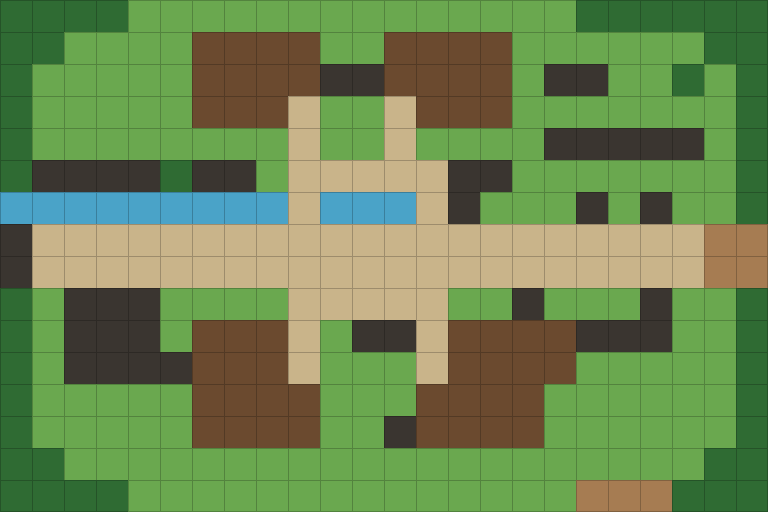
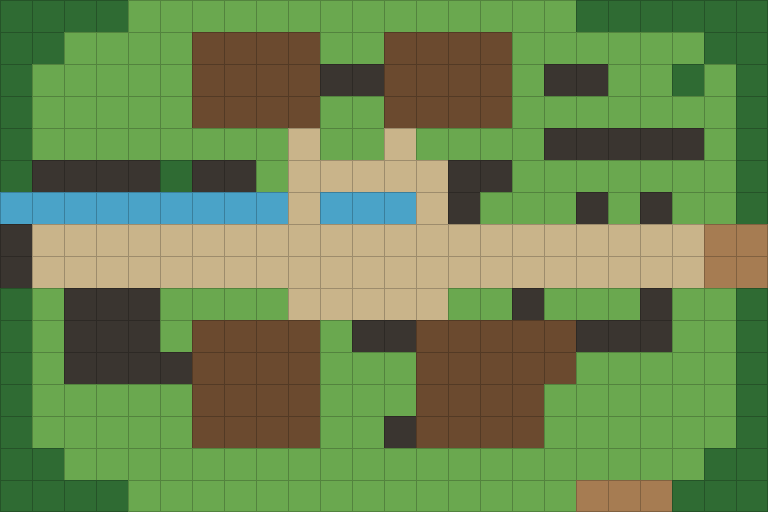
Ba Dan: block the six walkable tiles under house plinths and yards

diff --git a/src/content/scenes/baDan.test.ts b/src/content/scenes/baDan.test.ts
@@ -347,7 +347,7 @@ it('keeps court trunks solid and both shop doors and village routes reachable', 
   for (const pos of [
     // A resident-bound NpcDef has no `pos`: its tiles are its resident's anchors.
     ...map.npcs.flatMap((npc) => npcStandTiles(CONTENT_BUNDLE, map.id, npc)),
-    { x: 9, y: 3 },
+    { x: 10, y: 3 },
     { x: 11, y: 3 },
     { x: 23, y: 7 },
     { x: 19, y: 15 },
@@ -650,8 +650,9 @@ it('blocks the dressing, keeps the main ways open, and reaches every stand point
     for (let x = 1; x < map.width; x++) expect(open(x, y), `road ${x},${y}`).toBe(true);
   for (let x = 9; x <= 13; x++)
     for (const y of [5, 9]) expect(open(x, y), `square ${x},${y}`).toBe(true);
-  for (const y of [3, 4, 5])
-    for (const x of [9, 10]) expect(open(x, y), `lane ${x},${y}`).toBe(true);
+  // (9,3) is Gao's plinth and steps; the lane reaches his door at (10,3) from (10,4).
+  for (const y of [4, 5]) for (const x of [9, 10]) expect(open(x, y), `lane ${x},${y}`).toBe(true);
+  expect(open(10, 3), 'lane 10,3').toBe(true);
   for (const x of [9, 13]) expect(open(x, 6), `bridge ${x},6`).toBe(true);
   for (let x = 1; x < 17; x++) expect(open(x, 4), `north lane ${x},4`).toBe(true);
   // One connected walkable region: every walkable tile is reachable from the spawn, and every
@@ -668,7 +669,6 @@ it('blocks the dressing, keeps the main ways open, and reaches every stand point
   ).toEqual([]);
   for (const pos of [
     ...map.npcs.flatMap((npc) => npcStandTiles(CONTENT_BUNDLE, map.id, npc)),
-    { x: 9, y: 3 },
     { x: 10, y: 3 },
     { x: 11, y: 3 },
     { x: 11, y: 5 },
@@ -689,4 +689,66 @@ it('blocks the dressing, keeps the main ways open, and reaches every stand point
     ...[11, 12, 13, 14, 15].map((x) => ({ x, y: 15 })),
   ])
     expect(paths.has(posKey(pos)), `Unreachable stand point ${posKey(pos)}`).toBe(true);
+});
+
+it("leaves no walkable tile under a house's painted plinth, steps, wall or yard", () => {
+  // The painted pieces' own regions (`art/source/ba-dan-true/guides/pieces.json`), local to the footprint's
+  // north-west corner: the yard fills x 0..yard, the plinth runs on to the footprint's east edge over its
+  // whole depth, the wall stands on the plinth and the steps rise in the footprint's last column. A tile
+  // whose centre is inside any of them is one a figure would stand in the building. The tile in front of
+  // the steps (the door's `faces_tile`) is the one place to stand, and must stay open.
+  type Rect = readonly [number, number, number, number];
+  interface Piece {
+    scene_entry: string;
+    footprint_origin_map: [number, number];
+    footprint_tiles: [number, number];
+    door: { faces_tile: [number, number]; steps_x: Rect; steps_y: Rect };
+    geo: { wx0: number; wx1: number; wy0: number; wy1: number };
+    yard: { x: [number, number] };
+  }
+  const guides = JSON.parse(
+    readFileSync('art/source/ba-dan-true/guides/pieces.json', 'utf8'),
+  ) as Record<string, Piece>;
+  const houses = Object.values(guides).filter((piece) =>
+    BA_DAN_STANDING.some((s) => s.id === piece.scene_entry && s.id.endsWith('-house')),
+  );
+  expect(houses).toHaveLength(4);
+  const map = BA_DAN_VILLAGE;
+  const grid = buildGrid(map);
+  const start = map.partySpawns[0];
+  if (!start) throw new Error('Village has no spawn');
+  const paths = reachable({ grid, blocked: new Set(), surfaces: new Map(), size: 1 }, start, 1000);
+  const inside = (r: Rect, x: number, y: number) => x > r[0] && x < r[1] && y > r[2] && y < r[3];
+  for (const piece of houses) {
+    const [ox, oy] = piece.footprint_origin_map;
+    const [w, d] = piece.footprint_tiles;
+    const { wx0, wx1, wy0, wy1 } = piece.geo;
+    const regions: Record<string, Rect> = {
+      yard: [0, piece.yard.x[1], 0, d],
+      plinth: [piece.yard.x[1], w, 0, d],
+      wall: [wx0, wx1, wy0, wy1],
+      steps: [
+        piece.door.steps_x[0] ?? 0,
+        piece.door.steps_x[1] ?? 0,
+        piece.door.steps_y[0] ?? 0,
+        piece.door.steps_y[1] ?? 0,
+      ],
+    };
+    const footprint = BA_DAN_STANDING.find((s) => s.id === piece.scene_entry)?.footprint ?? [];
+    expect(footprint, piece.scene_entry).toHaveLength(w * d);
+    expect(footprint[0], piece.scene_entry).toEqual({ x: ox, y: oy });
+    for (let y = oy - 1; y <= oy + d; y++)
+      for (let x = ox - 1; x <= ox + w; x++) {
+        if (tileAt(grid, { x, y })?.blocked !== false) continue;
+        for (const [name, rect] of Object.entries(regions))
+          expect(
+            inside(rect, x + 0.5 - ox, y + 0.5 - oy),
+            `${piece.scene_entry}: walkable (${x},${y}) is under its ${name}`,
+          ).toBe(false);
+      }
+    const [fx, fy] = piece.door.faces_tile;
+    const foot = { x: ox + fx, y: oy + fy };
+    expect(tileAt(grid, foot)?.blocked, `${piece.scene_entry} door foot`).toBe(false);
+    expect(paths.has(posKey(foot)), `${piece.scene_entry} door foot reachable`).toBe(true);
+  }
 });

diff --git a/src/content/maps/village.ts b/src/content/maps/village.ts
@@ -33,27 +33,27 @@ export const BA_DAN_VILLAGE: MapDef = {
   ambience: 'village',
   legend: { ...LEGEND, l: { terrain: 'stone', blocked: true, blocksSight: false } },
   /*
-   * The house bodies are solid: their plank floors (`w` until the edges pass)
-   * were walkable cells under the painted roofs. Only the `=` doorsteps where
-   * each paved path meets its house stay open; Gao's routine steps from his
-   * lane at (9,4) up to (10,3), a diagonal that needs (9,3) open. The west
-   * road ends at the ford, `W` at (0,7) and (0,8), flooded this season; a
-   * future west region opens there behind a `Condition`, not through the rim. The set
+   * The house bodies are solid, and so is everything the painted plinth, steps and yard stand on:
+   * the house plinth runs the whole footprint, the yard fills its west tiles, and the east steps rise
+   * in its last column, so no footprint cell is open. Each door's steps come down on the open tile in
+   * front of them ((10,3), (16,3), (10,13), (17,13)); Gao's routine steps from his lane at (9,4)
+   * to (10,3) by (10,4). The west road ends at the ford, `W` at (0,7) and (0,8), flooded this
+   * season; a future west region opens there behind a `Condition`, not through the rim. The set
    * dressing's footprints (`BA_DAN_DRESSING`) are `l` lawn like the courtyard props.
    */
   rows: [
     'TTTT,,,,,,,,,,,,,,TTTTTT',
     'TT,,,,BBBB,,BBBB,,,,,,TT',
     'T,,,,,BBBB,,BBBB,,,,,,,T',
-    'T,,,,,BBB=,,=BBB,,,,,,,T',
+    'T,,,,,BBBB,,BBBB,,,,,,,T',
     'T,,,,,,,,=,,=,,,,,,,,,,T',
     'T,,,,,,,,=====,,,,,,,,,T',
     '~~~~~~~~~=~~~=,,,,,,,,,T',
     'W=====================..',
     'W=====================..',
     'T,,,,,,,,=====,,,,,,,,,T',
-    'T,,,,,BBB=,,,=BBBB,,,,,T',
-    'T,,,,,BBB=,,,=BBBB,,,,,T',
+    'T,,,,,BBBB,,,BBBBB,,,,,T',
+    'T,,,,,BBBB,,,BBBBB,,,,,T',
     'T,,,,,BBBB,,,BBBB,,,,,,T',
     'T,,,,,BBBB,,,BBBB,,,,,,T',
     'TT,,,,,,,,,,,,,,,,,,,,TT',

diff --git a/src/core/save/reconcileWorld.test.ts b/src/core/save/reconcileWorld.test.ts
@@ -434,3 +434,46 @@ suite('reconcileWorld: the Ba Dan edge rebuild (A5)', () => {
     expect(tileAt(grid, reconciled.location.pos)?.blocked).toBe(false);
   });
 });
+
+suite('reconcileWorld: a save standing where a house plinth now is', () => {
+  // Ba Dan's four footprints were once open at these tiles (under the plinth, the steps and the yard).
+  // A save made there loads onto the nearest open tile, by the same snap as any other buried position.
+  const buried: readonly [Vec2, Vec2][] = [
+    [
+      { x: 9, y: 3 },
+      { x: 10, y: 3 },
+    ],
+    [
+      { x: 12, y: 3 },
+      { x: 11, y: 3 },
+    ],
+    [
+      { x: 9, y: 10 },
+      { x: 8, y: 9 },
+    ],
+    [
+      { x: 9, y: 11 },
+      { x: 10, y: 10 },
+    ],
+    [
+      { x: 13, y: 10 },
+      { x: 12, y: 9 },
+    ],
+    [
+      { x: 13, y: 11 },
+      { x: 12, y: 11 },
+    ],
+  ];
+  for (const [saved, loaded] of buried)
+    it(`moves a save at (${saved.x},${saved.y}) to (${loaded.x},${loaded.y})`, () => {
+      const result = deserialize(
+        serialize(exploring({ location: { mapId: 'ba_dan_village', pos: saved } }), META),
+      );
+      if (!result.ok) throw new Error(result.error);
+      const reconciled = reconcileWorld(CONTENT, stateFromBlob(result.blob));
+      expect(reconciled.location.pos).toEqual(loaded);
+      const map = CONTENT.maps.get('ba_dan_village');
+      if (!map) throw new Error('no village');
+      expect(tileAt(buildGrid(map), reconciled.location.pos)?.blocked).toBe(false);
+    });
+});

diff --git a/src/app/anim/trail.test.ts b/src/app/anim/trail.test.ts
@@ -1,5 +1,6 @@
 import { describe, expect, it } from 'vitest';
 import { BA_DAN_VILLAGE } from '../../content/maps/village';
+import { BA_DAN_STANDING } from '../../content/scenes/baDan';
 import { CONTENT } from '../../content';
 import { createGame } from '../../core/state/createGame';
 import { visibleNpcs } from '../../core/story/world';
@@ -55,6 +56,25 @@ describe('placeParty', () => {
 
   it('is the same every time', () => {
     expect(placeParty(grid, spawn, 6)).toEqual(placeParty(grid, spawn, 6));
+  });
+
+  it('never seats a follower on a house plinth, its steps or its yard', () => {
+    // The well stop and the potter's door stop, where the line once stood on the woodcutter's plinth.
+    const houses = BA_DAN_STANDING.filter((piece) => piece.id.endsWith('-house'));
+    for (const lead of [
+      { x: 10, y: 12 },
+      { x: 14, y: 4 },
+    ]) {
+      const seats = placeParty(grid, lead, 4, { awayFrom: exit });
+      for (const seat of seats) {
+        expect(tileAt(grid, seat)?.blocked).toBeFalsy();
+        for (const house of houses)
+          expect(
+            house.footprint.some((cell) => samePos(cell, seat)),
+            `${posKey(seat)}`,
+          ).toBe(false);
+      }
+    }
   });
 
   it('stacks a party larger than the open ground on the last tile taken', () => {

diff --git a/src/content/residents/routines.ts b/src/content/residents/routines.ts
@@ -17,7 +17,8 @@ export const BA_DAN_ROUTINES: readonly ResidentRoutine[] = [
   {
     // Gao restacks his display. Its crates sit under the table, reached from
     // the front at (8,5); the display's own corner blocks the diagonal, so he
-    // goes round by the lane. Then up his steps to the rear room for stock.
+    // goes round by the lane. Then along the lane to the foot of his steps, (10,3), for stock;
+    // the steps' own tile, (9,3), is under the porch and blocked.
     id: 'lw.npc.gao',
     mapId: VILLAGE,
     anchor: 'bd02.shopfront',
@@ -39,8 +40,22 @@ export const BA_DAN_ROUTINES: readonly ResidentRoutine[] = [
         ],
         hold: 5000,
       },
-      { path: [{ x: 10, y: 3 }], hold: 2500, work: true, face: -1 },
-      { path: [{ x: 9, y: 4 }], hold: 6000 },
+      {
+        path: [
+          { x: 10, y: 4 },
+          { x: 10, y: 3 },
+        ],
+        hold: 2500,
+        work: true,
+        face: -1,
+      },
+      {
+        path: [
+          { x: 10, y: 4 },
+          { x: 9, y: 4 },
+        ],
+        hold: 6000,
+      },
     ],
   },
 ];

diff --git a/docs/art/prompts/maps/ba_dan_village.md b/docs/art/prompts/maps/ba_dan_village.md
@@ -18,10 +18,10 @@ Ba Dan, the small village the party sets out from: a clearing in the woods.
 
 24 columns by 16 rows, counted from 0 at the top-left corner. The painting is the ground and what stands on it, nothing else: the game draws its own grid, movement contours, units, props and effects over it, so every edge in the painting that matters to the rules sits exactly on a tile edge.
 
-- Road (62 tiles): 62 tiles (the centre), rows 3–4: columns 9 and 12; rows 5 and 9: columns 9–13; rows 6 and 10–11: columns 9 and 13; rows 7–8: columns 1–21.
+- Road (56 tiles): 56 tiles (the centre), row 4: columns 9 and 12; rows 5 and 9: columns 9–13; row 6: columns 9 and 13; rows 7–8: columns 1–21.
 - Still water (12 tiles): a 9×1 block at columns 0–8, row 6 (middle left); a 3×1 block at columns 10–12, row 6 (the centre).
 - Trees (46 tiles): 13 tiles (top right), row 0: columns 18–23; row 1: columns 22–23; rows 2–6: column 23; 11 tiles (bottom left), rows 9–13: column 0; row 14: columns 0–1; row 15: columns 0–3; 10 tiles (top left), row 0: columns 0–3; row 1: columns 0–1; rows 2–5: column 0; 10 tiles (bottom right), rows 9–13: column 23; row 14: columns 22–23; row 15: columns 21–23; one tile at column 21, row 2 (top right); one tile at column 5, row 5 (middle left).
-- Timber walls (52 tiles): 16 tiles (bottom centre), rows 10–11: columns 14–17; rows 12–13: columns 13–16; 14 tiles (bottom centre), rows 10–11: columns 6–8; rows 12–13: columns 6–9; 11 tiles (top centre), rows 1–2: columns 6–9; row 3: columns 6–8; 11 tiles (top centre), rows 1–2: columns 12–15; row 3: columns 13–15.
+- Timber walls (58 tiles): 18 tiles (bottom centre), rows 10–11: columns 13–17; rows 12–13: columns 13–16; a 4×4 block at columns 6–9, rows 10–13 (bottom centre); a 4×3 block at columns 6–9, rows 1–3 (top centre); a 4×3 block at columns 12–15, rows 1–3 (top centre).
 - Stone walls (40 tiles): 10 tiles (middle left), rows 9–10: columns 2–4; row 11: columns 2–5; a 5×1 block at columns 17–21, row 4 (top right); a 4×1 block at columns 1–4, row 5 (middle left); 4 tiles (middle right), row 9: column 20; row 10: columns 18–20; 3 tiles (the centre), row 5: columns 14–15; row 6: column 14; a 2×1 block at columns 10–11, row 2 (top centre); a 2×1 block at columns 17–18, row 2 (top right); a 2×1 block at columns 6–7, row 5 (middle left); a 1×2 block at column 0, rows 7–8 (middle left); a 2×1 block at columns 11–12, row 10 (the centre); one tile at column 18, row 6 (middle right); one tile at column 20, row 6 (middle right); one tile at column 16, row 9 (middle right); one tile at column 12, row 13 (bottom centre).
 - Open ground everywhere else: grass (165 tiles), bare earth (7 tiles).
 - The party enters from the left, standing at (3, 7); enemies come from the right. The exit is at (23, 7). Paint nothing there that would read as an object to walk round.
@@ -32,15 +32,15 @@ The rows as the rules read them:
 TTTT,,,,,,,,,,,,,,TTTTTT
 TT,,,,BBBB,,BBBB,,,,,,TT
 T,,,,,BBBBllBBBB,ll,,T,T
-T,,,,,BBB=,,=BBB,,,,,,,T
+T,,,,,BBBB,,BBBB,,,,,,,T
 T,,,,,,,,=,,=,,,,lllll,T
 TllllTll,=====ll,,,,,,,T
 ~~~~~~~~~=~~~=l,,,l,l,,T
 W=====================..
 W=====================..
 T,lll,,,,=====,,l,,,l,,T
-T,lll,BBB=,ll=BBBBlll,,T
-T,llllBBB=,,,=BBBB,,,,,T
+T,lll,BBBB,llBBBBBlll,,T
+T,llllBBBB,,,BBBBB,,,,,T
 T,,,,,BBBB,,,BBBB,,,,,,T
 T,,,,,BBBB,,lBBBB,,,,,,T
 TT,,,,,,,,,,,,,,,,,,,,TT

diff --git a/art/source/ba-dan-true/guides/README-houses.md b/art/source/ba-dan-true/guides/README-houses.md
@@ -50,7 +50,11 @@ figure at the door, the one-tile-wider alternative, the painter's sheets) are `p
 No hips and no dormers: their ridges and valleys run diagonal on the ground, against the axis rule. The second lower roof is a
 wing with its own ridge along y; the chimney, the vent and the porch roof are axis-aligned boxes and planes.
 
-## Yards (all on blocked tiles; walkability is unchanged)
+## Yards (all on blocked tiles)
+
+Every footprint tile is blocked: the plinth runs the whole footprint and the yard fills its west tiles, so the `walkable_cells_in_footprint`
+that `pieces.json` still lists (the earlier design's doorstep and gate notches: (9,3), (12,3), (9,10), (9,11), (13,10), (13,11)) were closed in `village.ts`;
+a figure stands at the foot of the steps, the door's `faces_tile`, and `baDan.test.ts` holds both. The gates below are painted openings onto the lane, not walkable tiles.
 
 | house                  | yard (tiles, x by y) | contents                                                                                       | gate                                                                         |
 | ---------------------- | -------------------- | ---------------------------------------------------------------------------------------------- | ---------------------------------------------------------------------------- |
